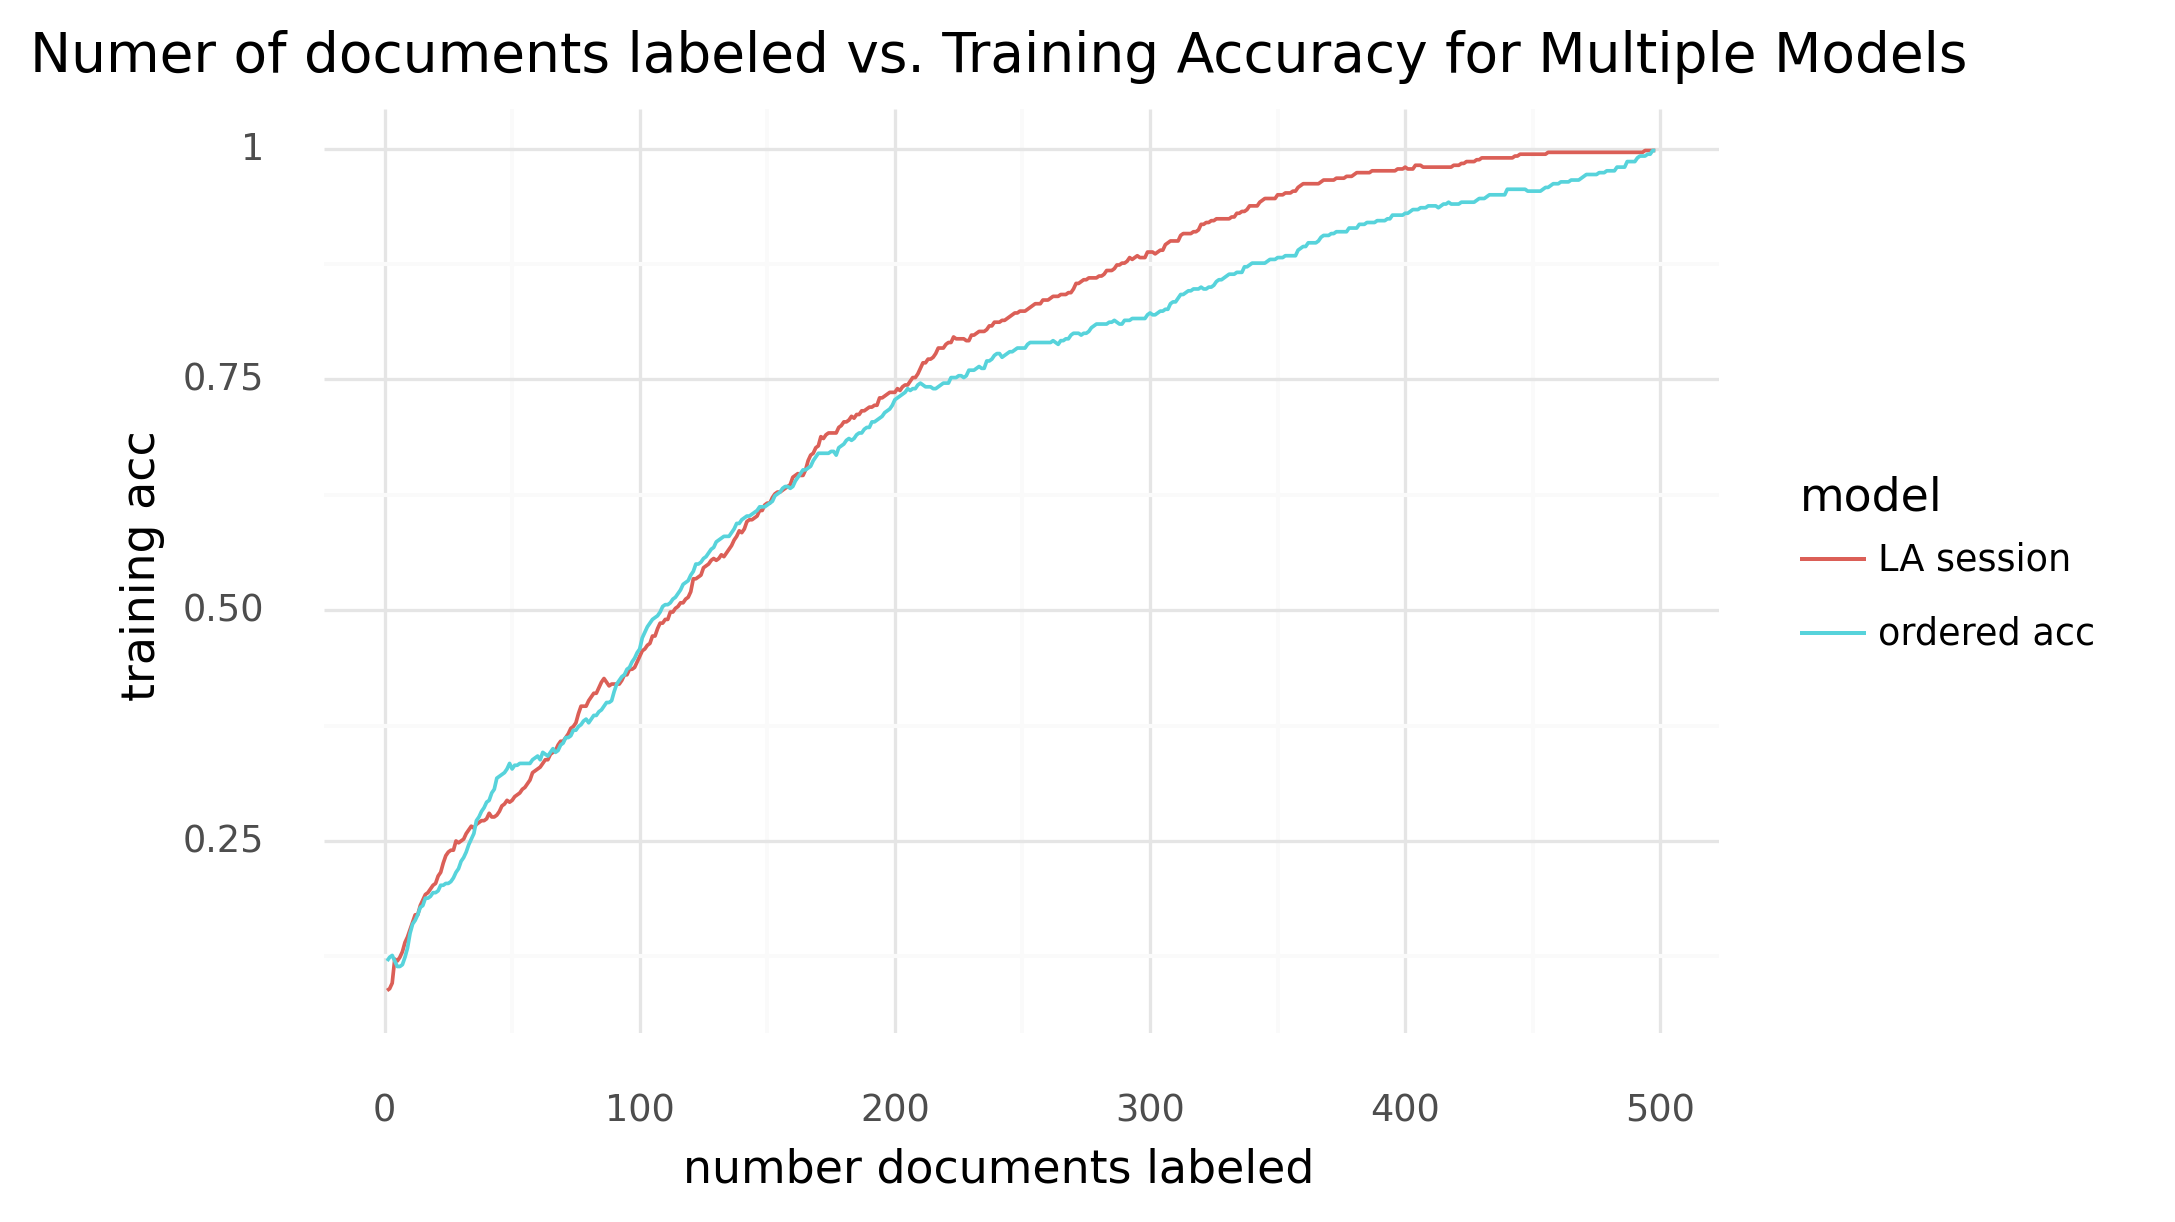
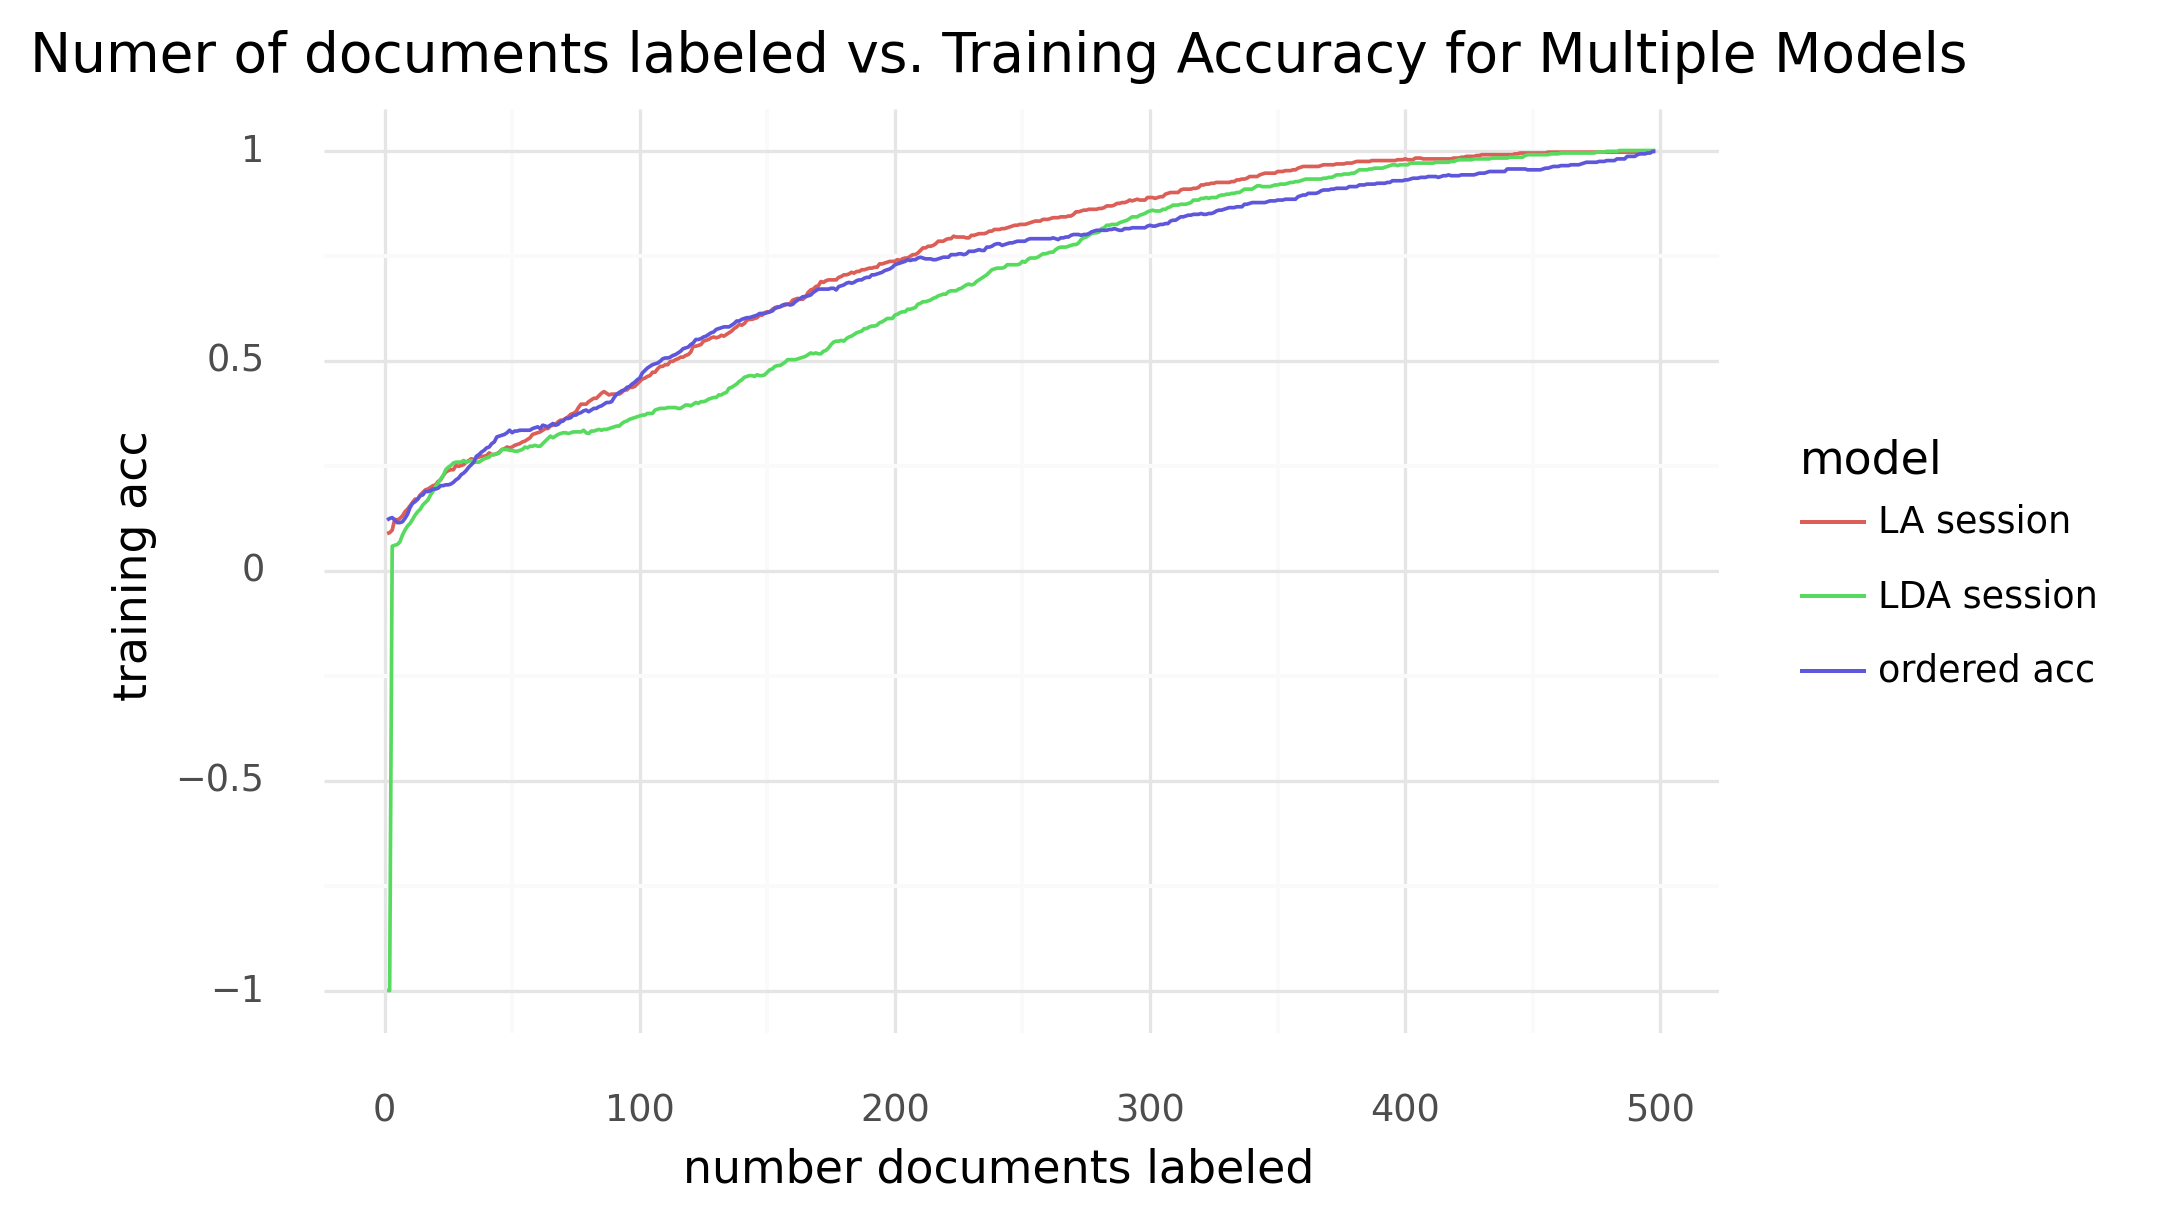
message

diff --git a/plot_figure.py b/plot_figure.py
@@ -95,22 +95,23 @@ def read_user_accuracy_np(data_path):
 
 
 # print_users_and_modes('local_users.db')
-save_path = './plot_results/accuracy_plot.png'
+save_path = './plot_results/test_accuracy_plot.png'
 
 database_name = 'local_users.db'
-acc_type = 'global_training_acc'
+acc_type = 'global_testing_acc'
 LA_session_acc = read_accuracy_db(1, database_name, acc_type)
+LDA_session_acc = read_accuracy_db(2, database_name, acc_type)
 logistic_acc = read_user_accuracy_np('./np_files/classifier_results.npy')
 
 
-min_len = min(len(logistic_acc[0]), len(logistic_acc[1]), len(logistic_acc[2]), len(logistic_acc[3]), len(LA_session_acc))
+min_len = min(len(logistic_acc[0]), len(logistic_acc[1]), len(logistic_acc[2]), len(logistic_acc[3]), len(LA_session_acc), len(LDA_session_acc))
 
 
 data_to_plot = {
-                'number documents labeled': [i+1 for i in range(min_len)] * 2,
+                'number documents labeled': [i+1 for i in range(min_len)] * 3,
 
-                'training acc': LA_session_acc[2:] + logistic_acc[2].tolist(),
-                'model': ['LA session'] * min_len + ['ordered acc'] * min_len
+                'training acc': LA_session_acc[2:] + logistic_acc[3].tolist() + LDA_session_acc[2:],
+                'model': ['LA session'] * min_len + ['ordered acc'] * min_len + ['LDA session'] * min_len
                 }
 
 
